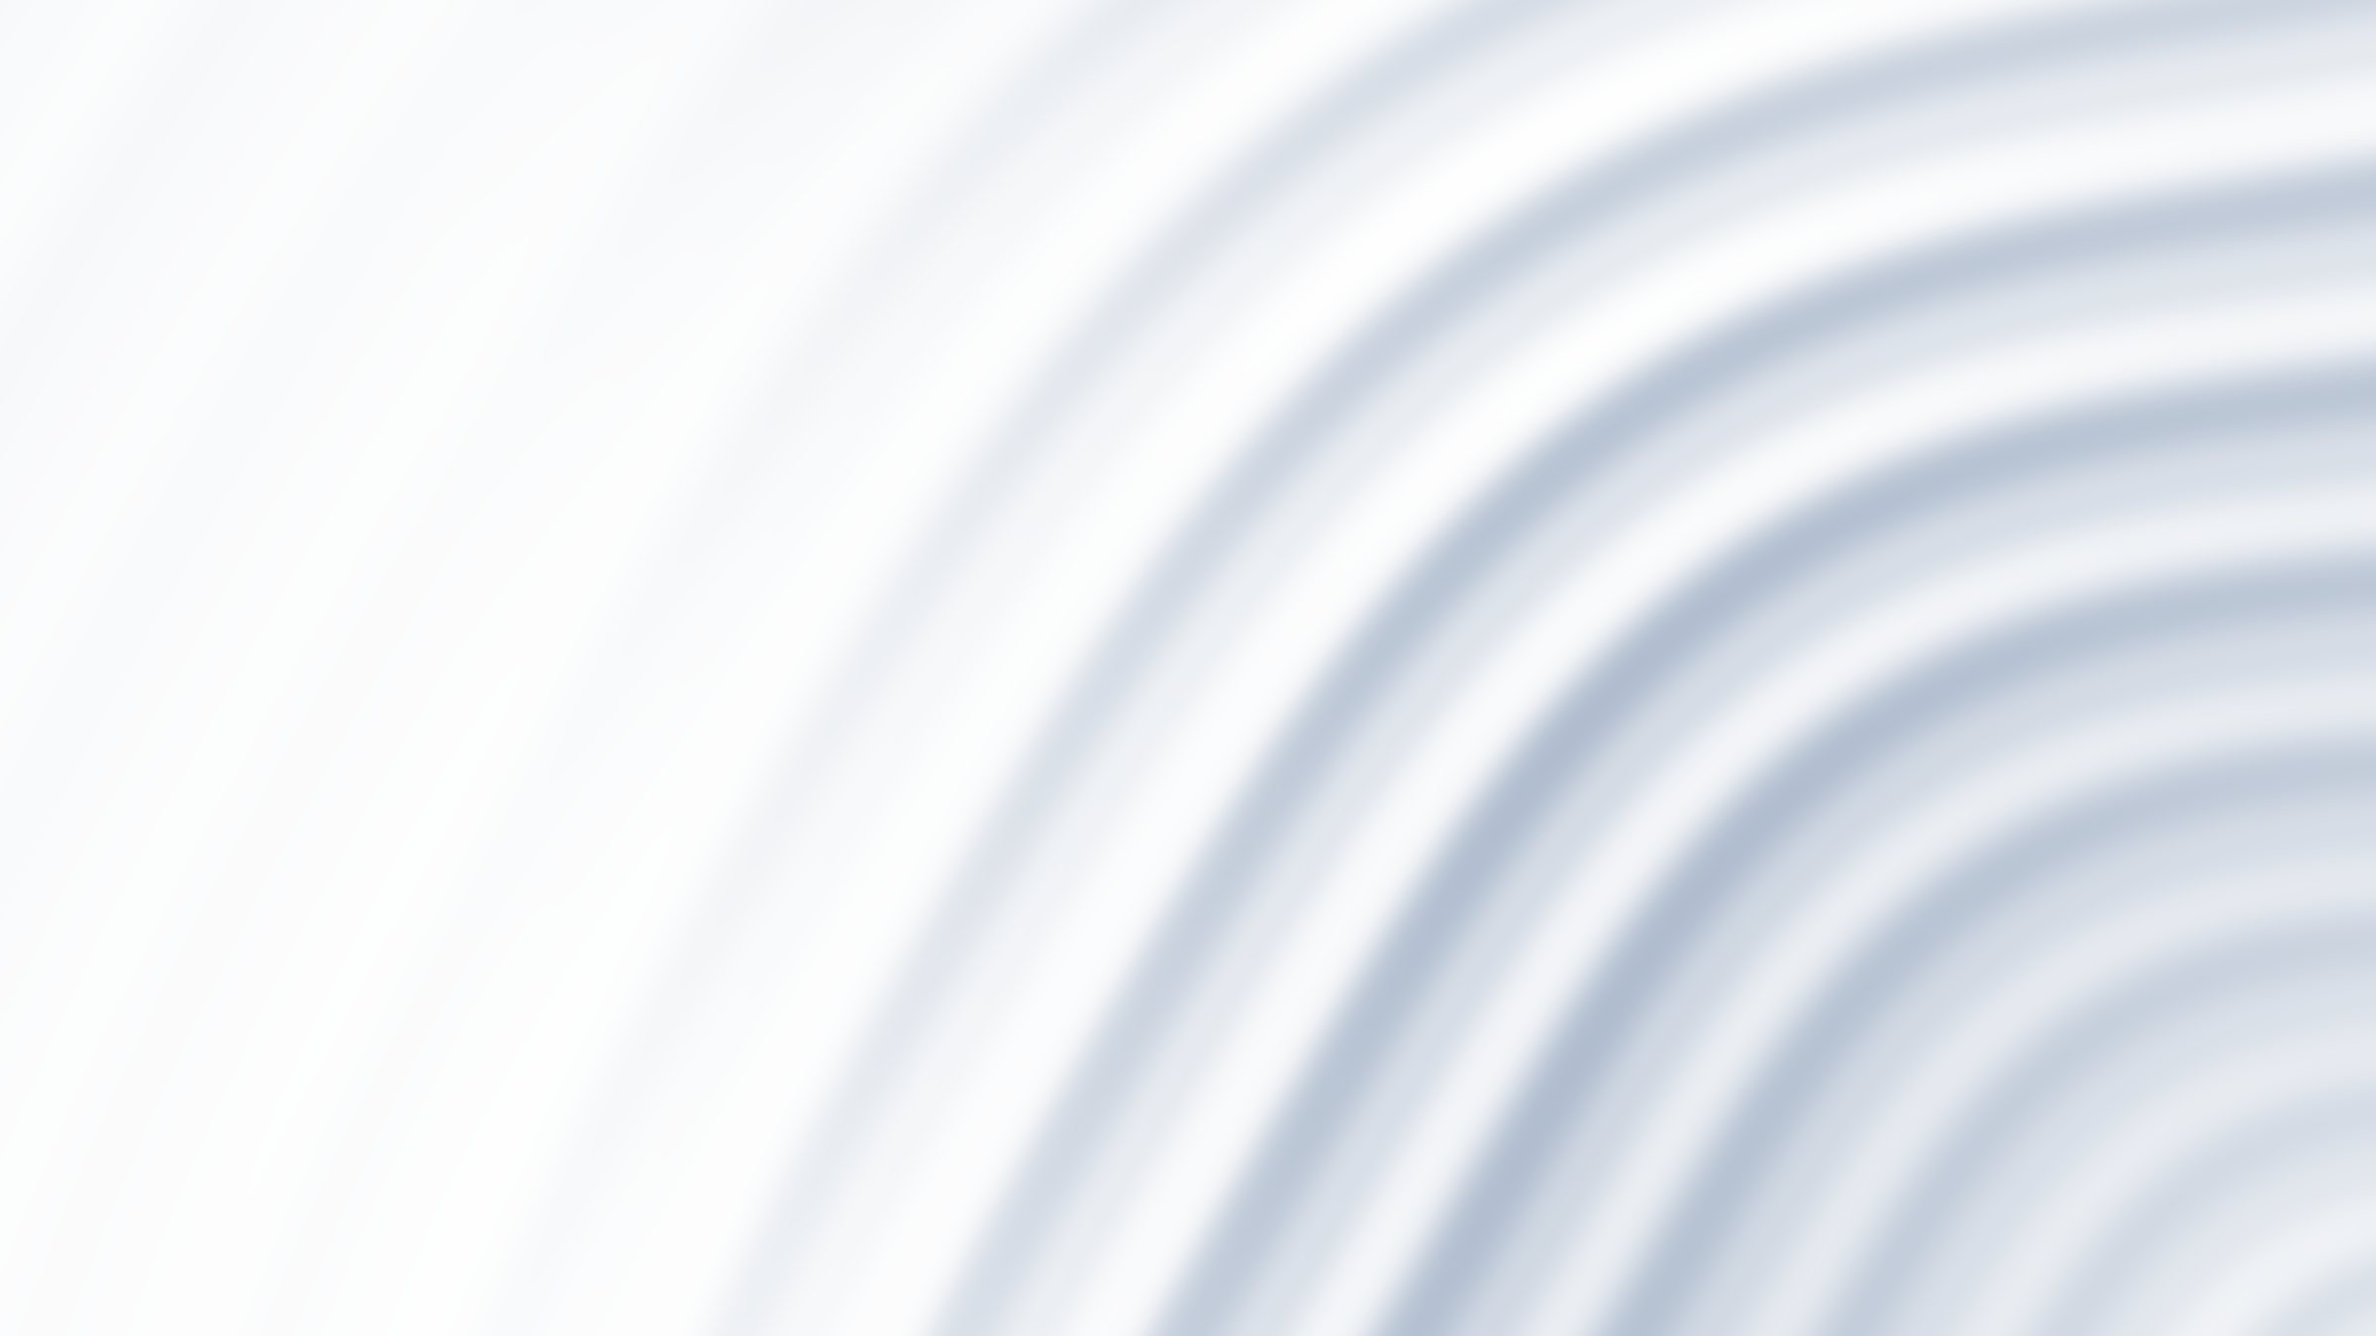
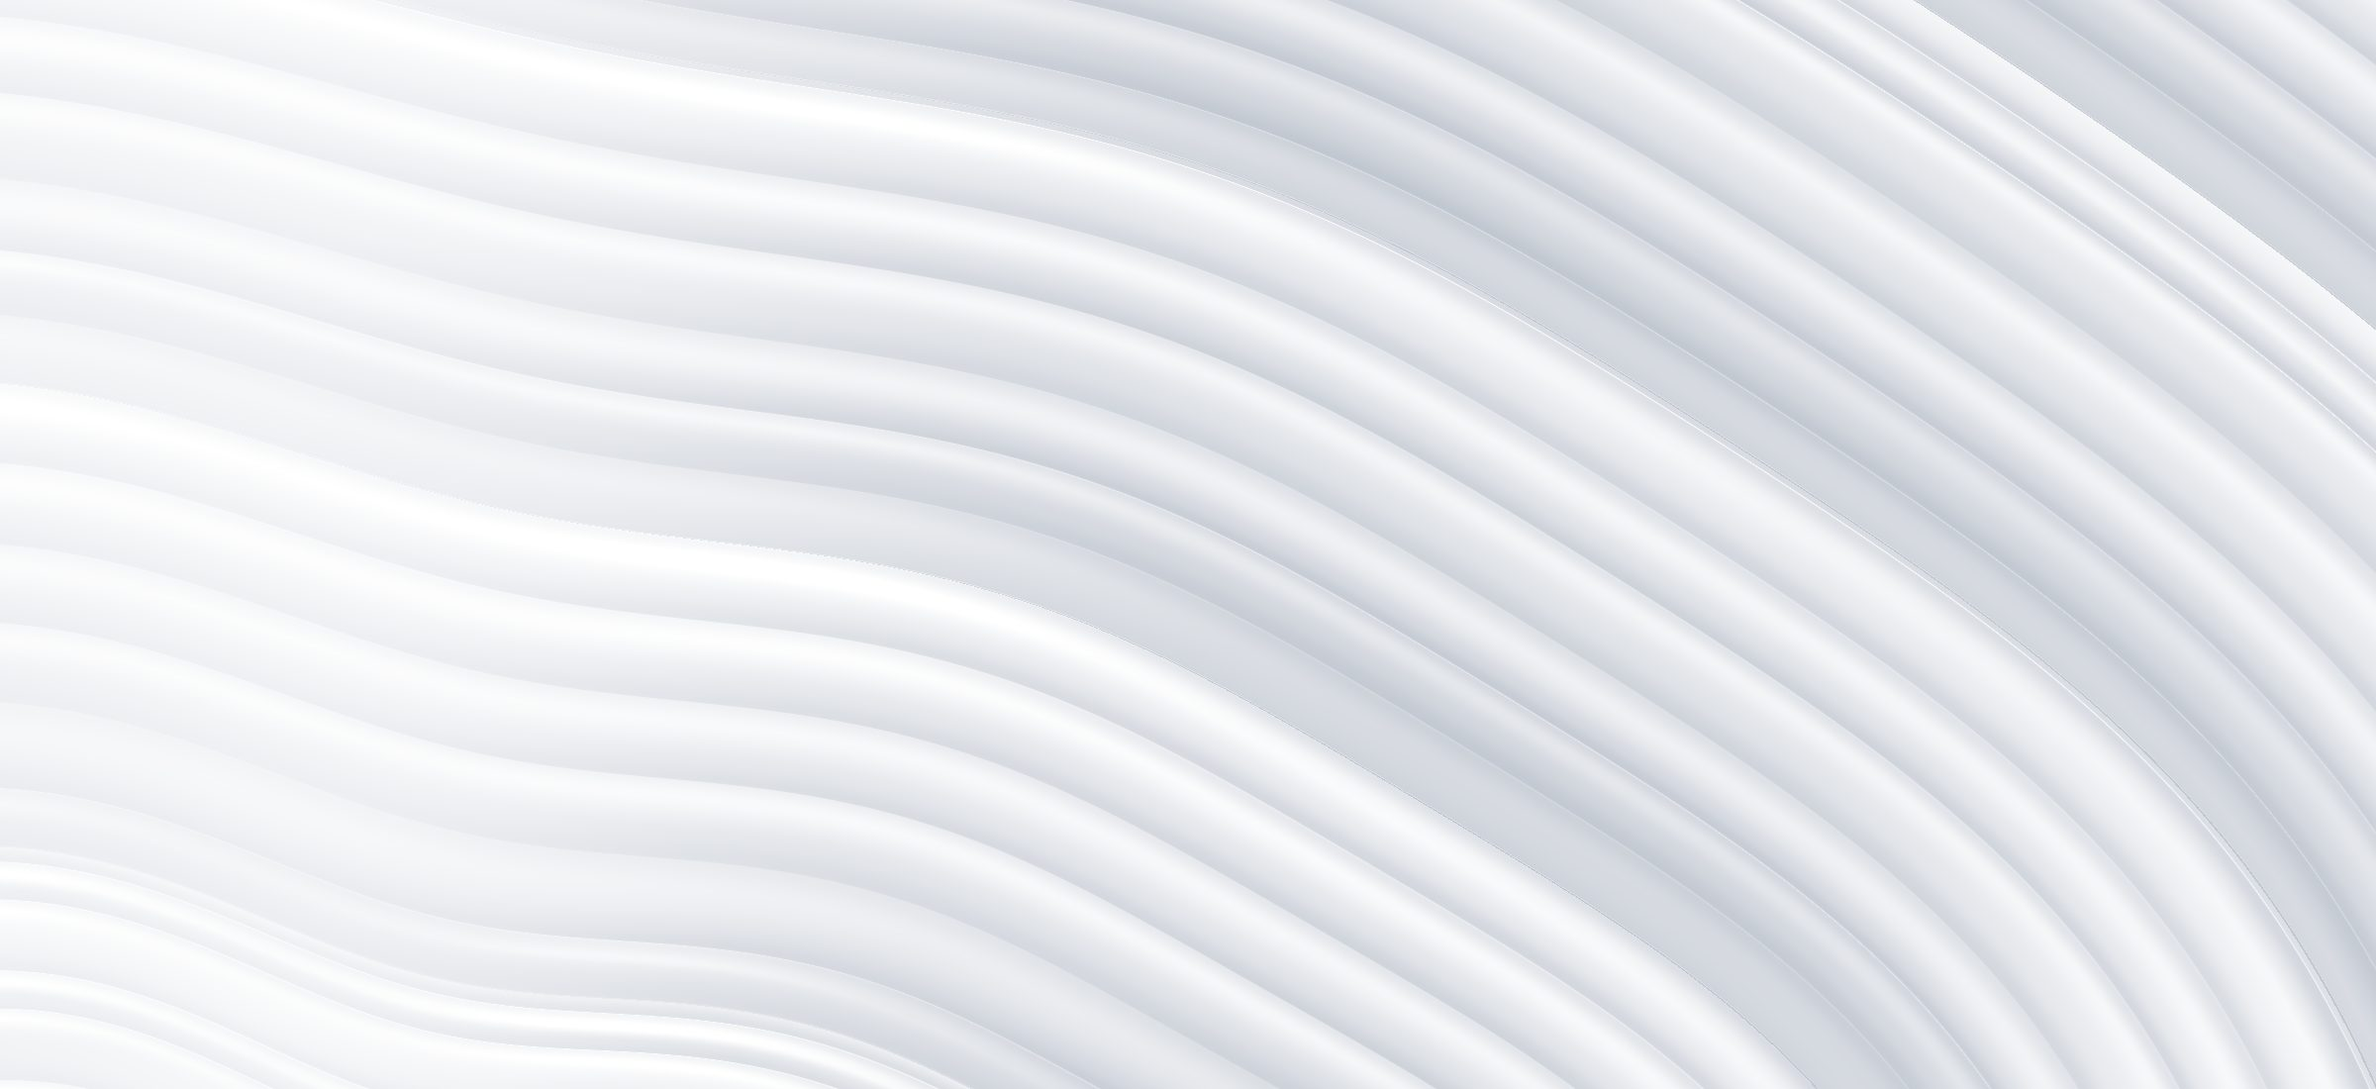
첫 화면: 가는 가닥이 겹쳐 흐르는 배경으로 교체, 높이 축소, 단추를 둥근 사각형으로, 상단 전화번호를 상담 문의로

diff --git a/style.css b/style.css
@@ -65,7 +65,7 @@ h3 { font-size: 1.25rem; }
 .brand img { width: auto; height: 60px; }
 .top nav { margin-left: auto; }
 .top nav ul { display: flex; gap: 4px; }
-.top nav a { display: block; padding: 12px 16px; color: var(--ink); text-decoration: none; font-weight: 500; border-radius: 999px; white-space: nowrap; }
+.top nav a { display: block; padding: 12px 16px; color: var(--ink); text-decoration: none; font-weight: 500; border-radius: 10px; white-space: nowrap; }
 .top nav a[aria-current="page"] { color: var(--blue); font-weight: 700; background: var(--wash); }
 
 /* ---------- 버튼 ---------- */
@@ -73,15 +73,15 @@ h3 { font-size: 1.25rem; }
 .btn {
   display: inline-flex; align-items: center; justify-content: center;
   min-height: 52px; padding: 0 28px;
-  border: 1.5px solid transparent; border-radius: 999px;
+  border: 1.5px solid transparent; border-radius: 12px;
   font: inherit; font-weight: 700; font-size: 1rem; text-decoration: none; cursor: pointer;
   font-variant-numeric: tabular-nums; white-space: nowrap;
   transition: transform 160ms var(--ease-out), background-color 160ms ease, color 160ms ease, border-color 160ms ease;
 }
 .btn:active { transform: scale(0.97); }
-.btn-small { min-height: 44px; padding: 0 20px; font-size: 0.9375rem; }
+.btn-small { min-height: 44px; padding: 0 20px; border-radius: 10px; font-size: 0.9375rem; }
 .btn-solid { background: var(--blue); color: var(--paper); }
-.btn-ghost { background: transparent; border-color: var(--muted); color: var(--ink); }
+.btn-ghost { background: var(--paper); border-color: var(--line); color: var(--ink); }
 .btn-light { background: var(--paper); color: var(--blue); }
 .btn-line { border-color: var(--paper); color: var(--paper); }
 @media (hover: hover) and (pointer: fine) {
@@ -106,13 +106,13 @@ h3 { font-size: 1.25rem; }
 .hero-pause[aria-pressed="true"] .i-play { display: inline; }
 .hero-pause:active { transform: scale(0.94); }
 @media (hover: hover) and (pointer: fine) { .hero-pause:hover { color: var(--blue); border-color: var(--blue); } }
-.hero-in { display: flex; flex-direction: column; justify-content: center; min-height: min(calc(100svh - 89px), 720px); padding-block: clamp(56px, 7vw, 96px); }
+.hero-in { display: flex; flex-direction: column; justify-content: center; min-height: min(calc(100svh - 89px), 540px); padding-block: clamp(48px, 6vw, 72px); }
 /* 서체는 Pretendard 하나. 가는 약속 한 줄 아래에 굵고 큰 이름을 굵기 차이로만 세운다 */
 .hero-title { display: grid; gap: 0.14em; font-size: clamp(2.75rem, 1rem + 5.6vw, 5.75rem); line-height: 1.1; letter-spacing: -0.04em; color: var(--blue); }
 .ht-slogan { font-size: 0.5em; font-weight: 300; letter-spacing: -0.02em; }
 .ht-name { font-weight: 800; }
-.hero .lead { margin-top: clamp(32px, 4vw, 56px); max-width: 24em; font-size: clamp(1.25rem, 1rem + 1.1vw, 1.75rem); font-weight: 500; line-height: 1.5; letter-spacing: -0.02em; color: var(--ink); }
-.hero .actions { margin-top: clamp(32px, 4vw, 48px); }
+.hero .lead { margin-top: clamp(24px, 3vw, 36px); max-width: 24em; font-size: clamp(1.25rem, 1rem + 1.1vw, 1.75rem); font-weight: 500; line-height: 1.5; letter-spacing: -0.02em; color: var(--ink); }
+.hero .actions { margin-top: clamp(28px, 3vw, 36px); }
 @keyframes rise { from { opacity: 0; transform: translateY(14px); } }
 @media (prefers-reduced-motion: no-preference) {
   .hero-in > * { animation: rise 640ms var(--ease-out) both; }
@@ -243,11 +243,12 @@ h3 { font-size: 1.25rem; }
   .top-in { flex-wrap: wrap; padding-block: 8px; gap: 0 16px; }
   .top nav { order: 3; width: 100%; margin-left: -12px; }
   .top nav a { padding: 12px; }
-  .top-tel { margin-left: auto; }
+  .top-cta { margin-left: auto; }
   .brand img { height: 52px; }
   html { scroll-padding-top: 16px; }
   .hero { background-position: 78% bottom; }
   .hero-in { min-height: 0; }
+  .hero-pause { top: 12px; bottom: auto; }
   .split, .cols, .visit, .svc, .profile { grid-template-columns: minmax(0, 1fr); gap: 32px; }
   .why { grid-template-columns: minmax(0, 1fr); }
   .tile { min-height: 0; }

diff --git a/hero.js b/hero.js
@@ -1,5 +1,5 @@
 /* 첫 화면 배경의 결이 천천히 흐르게 한다.
-   그림(img/hero-bg.jpg)과 같은 식을 화면에서 직접 그린다. 움직임을 줄이도록 설정한 기기,
+   가는 가닥이 겹쳐 흐르는 면을 화면에서 직접 그린다(img/hero-bg.jpg 는 같은 식의 정지 장면). 움직임을 줄이도록 설정한 기기,
    WebGL 을 쓸 수 없는 기기에서는 아무것도 하지 않고 정지 그림이 그대로 보인다. */
 (function () {
   var hero = document.querySelector('.hero');
@@ -13,26 +13,39 @@
   var frag = [
     'precision highp float;',
     'uniform vec2 res;uniform float T;',
-    'float hgt(vec2 q,float asp){',
-    '  vec2 d=vec2((q.x-1.25)*asp,q.y-1.55);',
-    '  float r=length(d);float a=atan(d.y,d.x);',
-    '  float t=r+0.06*sin(a*3.1+0.7+T)+0.035*sin(a*7.3+2.1-T);',
-    '  float ridge=pow(0.5+0.5*sin(58.0*pow(t,0.78)-T*3.0),1.6);',
-    '  float broad=0.5+0.5*sin(4.2*t+1.3+0.6*sin(T));',
-    '  return 0.030*ridge*(0.25+0.75*broad)+0.13*broad;',
+    'float hash(float n){return fract(sin(n*12.9898)*43758.5453);}',
+    'float vn(float x){float i=floor(x),f=fract(x);f=f*f*(3.-2.*f);return mix(hash(i),hash(i+1.),f);}',
+    '// 높이와 그늘 정보를 함께 돌려준다: x=높이, y=가닥 단면(0 골..1 등), z=겹친 판에서의 위치(0 판 시작..1 끝)',
+    'vec3 surf(vec2 q,float asp){',
+    '  vec2 d=vec2((q.x-0.10)*asp,q.y-2.05);',
+    '  float r=length(d);float a=atan(d.x,-d.y);',
+    '  float s=r+0.085*sin(a*2.3+1.0+T*0.50)+0.040*sin(a*5.1+0.4-T*0.35)+0.018*sin(a*11.0+T*0.2);',
+    '  float k=s*2.3-T*0.045;',
+    '  float sid=floor(k);float sheet=fract(k);',
+    '  float n=5.0+floor(6.0*hash(sid+3.0));',
+    '  float w=sheet*n+0.55*vn(sheet*n*0.9+sid*7.0);',
+    '  float x=fract(w)-0.5;',
+    '  float tube=pow(0.5+0.5*cos(6.2831853*x),0.55);',
+    '  float ramp=sheet*sheet*(3.0-2.0*sheet);',
+    '  float h=0.40*ramp+0.034*tube+0.05*sin(a*3.0+sid*1.7+T*0.3);',
+    '  return vec3(h,tube,sheet);',
     '}',
     'void main(){',
     '  vec2 q=vec2(gl_FragCoord.x/res.x,1.0-gl_FragCoord.y/res.y);',
-    '  float asp=max(res.x/res.y,1.3);',
-    '  float e=0.0012;',
-    '  float h0=hgt(q,asp);',
-    '  float gx=(hgt(q+vec2(e,0.),asp)-h0)/e*0.55;',
-    '  float gy=(hgt(q+vec2(0.,e),asp)-h0)/e*0.55;',
+    '  float asp=max(res.x/res.y,1.2);',
+    '  float e=0.0009;',
+    '  vec3 c=surf(q,asp);',
+    '  float gx=clamp((surf(q+vec2(e,0.),asp).x-c.x)/e,-6.,6.)*0.42;',
+    '  float gy=clamp((surf(q+vec2(0.,e),asp).x-c.x)/e,-6.,6.)*0.42;',
     '  vec3 n=normalize(vec3(-gx,-gy,1.0));',
-    '  float diff=clamp(dot(n,vec3(-0.4511,-0.5514,0.7018)),0.,1.);',
-    '  float s=pow(clamp((diff-0.17)/0.793,0.,1.),1.15);',
-    '  vec3 col=mix(vec3(0.690,0.741,0.812),vec3(1.0),s);',
-    '  float f=0.12+0.88*smoothstep(0.18,0.68,q.x);',
+    '  vec3 L=normalize(vec3(-0.35,-0.62,0.70));',
+    '  float diff=clamp(dot(n,L),0.,1.);',
+    '  float spec=pow(clamp(dot(n,normalize(L+vec3(0.,0.,1.))),0.,1.),38.0);',
+    '  float ao=mix(0.74,1.0,smoothstep(0.0,0.80,c.y));          // 가닥 사이 골의 그늘',
+    '  float under=mix(0.60,1.0,smoothstep(0.0,0.50,c.z));       // 위 판이 드리우는 그늘',
+    '  float lit=(0.42+0.70*diff)*ao*under+0.22*spec;',
+    '  vec3 col=mix(vec3(0.640,0.675,0.730),vec3(1.0),clamp(lit,0.,1.));',
+    '  float f=0.30+0.70*smoothstep(0.08,0.62,q.x);',
     '  gl_FragColor=vec4(mix(vec3(1.0),col,f),1.0);',
     '}'
   ].join('\n');
@@ -85,7 +98,7 @@
     if (last) clock += Math.min((now - last) / 1000, 0.1);
     last = now;
     resize();
-    gl.uniform1f(uT, clock * 0.22);
+    gl.uniform1f(uT, clock * 0.3);
     gl.drawArrays(gl.TRIANGLES, 0, 3);
     if (!shown) { shown = true; canvas.classList.add('is-on'); if (button) button.hidden = false; }
     frame = requestAnimationFrame(draw);

diff --git a/contact.html b/contact.html
@@ -18,7 +18,7 @@
 <link rel="icon" href="img/favicon.png" type="image/png">
 <link rel="preconnect" href="https://cdn.jsdelivr.net" crossorigin>
 <link rel="stylesheet" href="https://cdn.jsdelivr.net/gh/orioncactus/pretendard@v1.3.9/dist/web/variable/pretendardvariable-dynamic-subset.min.css">
-<link rel="stylesheet" href="style.css?v=1795139458">
+<link rel="stylesheet" href="style.css?v=1795142555">
 <script type="application/ld+json">{"@context": "https://schema.org", "@type": "AccountingService", "name": "세무회계 재담", "slogan": "재산을 지키다", "url": "https://jaedam.kr/", "logo": "https://jaedam.kr/img/logo-039.png", "image": "https://jaedam.kr/img/og.png", "telephone": "+82-31-8023-9870", "faxNumber": "+82-31-8023-9871", "sameAs": ["https://blog.naver.com/simtaxby", "https://map.naver.com/p/entry/place/1283285464"], "address": {"@type": "PostalAddress", "addressCountry": "KR", "addressRegion": "경기도", "addressLocality": "성남시 분당구", "streetAddress": "판교역로 178, 서건타워 401호", "postalCode": "13524"}}</script>
 </head>
 <body>
@@ -35,7 +35,7 @@
         <li><a href="contact.html" aria-current="page">오시는 길</a></li>
       </ul>
     </nav>
-    <a class="btn btn-solid btn-small top-tel" href="tel:031-8023-9870">031-8023-9870</a>
+    <a class="btn btn-solid btn-small top-cta" href="contact.html">상담 문의</a>
   </div>
 </header>
 <main id="main">

diff --git a/about.html b/about.html
@@ -18,7 +18,7 @@
 <link rel="icon" href="img/favicon.png" type="image/png">
 <link rel="preconnect" href="https://cdn.jsdelivr.net" crossorigin>
 <link rel="stylesheet" href="https://cdn.jsdelivr.net/gh/orioncactus/pretendard@v1.3.9/dist/web/variable/pretendardvariable-dynamic-subset.min.css">
-<link rel="stylesheet" href="style.css?v=1795139458">
+<link rel="stylesheet" href="style.css?v=1795142555">
 <script type="application/ld+json">{"@context": "https://schema.org", "@type": "AccountingService", "name": "세무회계 재담", "slogan": "재산을 지키다", "url": "https://jaedam.kr/", "logo": "https://jaedam.kr/img/logo-039.png", "image": "https://jaedam.kr/img/og.png", "telephone": "+82-31-8023-9870", "faxNumber": "+82-31-8023-9871", "sameAs": ["https://blog.naver.com/simtaxby", "https://map.naver.com/p/entry/place/1283285464"], "address": {"@type": "PostalAddress", "addressCountry": "KR", "addressRegion": "경기도", "addressLocality": "성남시 분당구", "streetAddress": "판교역로 178, 서건타워 401호", "postalCode": "13524"}}</script>
 </head>
 <body>
@@ -35,7 +35,7 @@
         <li><a href="contact.html">오시는 길</a></li>
       </ul>
     </nav>
-    <a class="btn btn-solid btn-small top-tel" href="tel:031-8023-9870">031-8023-9870</a>
+    <a class="btn btn-solid btn-small top-cta" href="contact.html">상담 문의</a>
   </div>
 </header>
 <main id="main">

diff --git a/index.html b/index.html
@@ -18,7 +18,7 @@
 <link rel="icon" href="img/favicon.png" type="image/png">
 <link rel="preconnect" href="https://cdn.jsdelivr.net" crossorigin>
 <link rel="stylesheet" href="https://cdn.jsdelivr.net/gh/orioncactus/pretendard@v1.3.9/dist/web/variable/pretendardvariable-dynamic-subset.min.css">
-<link rel="stylesheet" href="style.css?v=1795139458">
+<link rel="stylesheet" href="style.css?v=1795142555">
 <script type="application/ld+json">{"@context": "https://schema.org", "@type": "AccountingService", "name": "세무회계 재담", "slogan": "재산을 지키다", "url": "https://jaedam.kr/", "logo": "https://jaedam.kr/img/logo-039.png", "image": "https://jaedam.kr/img/og.png", "telephone": "+82-31-8023-9870", "faxNumber": "+82-31-8023-9871", "sameAs": ["https://blog.naver.com/simtaxby", "https://map.naver.com/p/entry/place/1283285464"], "address": {"@type": "PostalAddress", "addressCountry": "KR", "addressRegion": "경기도", "addressLocality": "성남시 분당구", "streetAddress": "판교역로 178, 서건타워 401호", "postalCode": "13524"}}</script>
 </head>
 <body>
@@ -35,7 +35,7 @@
         <li><a href="contact.html">오시는 길</a></li>
       </ul>
     </nav>
-    <a class="btn btn-solid btn-small top-tel" href="tel:031-8023-9870">031-8023-9870</a>
+    <a class="btn btn-solid btn-small top-cta" href="contact.html">상담 문의</a>
   </div>
 </header>
 <main id="main">

diff --git a/lee.html b/lee.html
@@ -18,7 +18,7 @@
 <link rel="icon" href="img/favicon.png" type="image/png">
 <link rel="preconnect" href="https://cdn.jsdelivr.net" crossorigin>
 <link rel="stylesheet" href="https://cdn.jsdelivr.net/gh/orioncactus/pretendard@v1.3.9/dist/web/variable/pretendardvariable-dynamic-subset.min.css">
-<link rel="stylesheet" href="style.css?v=1795139458">
+<link rel="stylesheet" href="style.css?v=1795142555">
 <script type="application/ld+json">{"@context": "https://schema.org", "@type": "AccountingService", "name": "세무회계 재담", "slogan": "재산을 지키다", "url": "https://jaedam.kr/", "logo": "https://jaedam.kr/img/logo-039.png", "image": "https://jaedam.kr/img/og.png", "telephone": "+82-31-8023-9870", "faxNumber": "+82-31-8023-9871", "sameAs": ["https://blog.naver.com/simtaxby", "https://map.naver.com/p/entry/place/1283285464"], "address": {"@type": "PostalAddress", "addressCountry": "KR", "addressRegion": "경기도", "addressLocality": "성남시 분당구", "streetAddress": "판교역로 178, 서건타워 401호", "postalCode": "13524"}}</script>
 </head>
 <body>
@@ -35,7 +35,7 @@
         <li><a href="contact.html">오시는 길</a></li>
       </ul>
     </nav>
-    <a class="btn btn-solid btn-small top-tel" href="tel:031-8023-9870">031-8023-9870</a>
+    <a class="btn btn-solid btn-small top-cta" href="contact.html">상담 문의</a>
   </div>
 </header>
 <main id="main">

diff --git a/services.html b/services.html
@@ -18,7 +18,7 @@
 <link rel="icon" href="img/favicon.png" type="image/png">
 <link rel="preconnect" href="https://cdn.jsdelivr.net" crossorigin>
 <link rel="stylesheet" href="https://cdn.jsdelivr.net/gh/orioncactus/pretendard@v1.3.9/dist/web/variable/pretendardvariable-dynamic-subset.min.css">
-<link rel="stylesheet" href="style.css?v=1795139458">
+<link rel="stylesheet" href="style.css?v=1795142555">
 <script type="application/ld+json">{"@context": "https://schema.org", "@type": "AccountingService", "name": "세무회계 재담", "slogan": "재산을 지키다", "url": "https://jaedam.kr/", "logo": "https://jaedam.kr/img/logo-039.png", "image": "https://jaedam.kr/img/og.png", "telephone": "+82-31-8023-9870", "faxNumber": "+82-31-8023-9871", "sameAs": ["https://blog.naver.com/simtaxby", "https://map.naver.com/p/entry/place/1283285464"], "address": {"@type": "PostalAddress", "addressCountry": "KR", "addressRegion": "경기도", "addressLocality": "성남시 분당구", "streetAddress": "판교역로 178, 서건타워 401호", "postalCode": "13524"}}</script>
 </head>
 <body>
@@ -35,7 +35,7 @@
         <li><a href="contact.html">오시는 길</a></li>
       </ul>
     </nav>
-    <a class="btn btn-solid btn-small top-tel" href="tel:031-8023-9870">031-8023-9870</a>
+    <a class="btn btn-solid btn-small top-cta" href="contact.html">상담 문의</a>
   </div>
 </header>
 <main id="main">

diff --git a/sim.html b/sim.html
@@ -18,7 +18,7 @@
 <link rel="icon" href="img/favicon.png" type="image/png">
 <link rel="preconnect" href="https://cdn.jsdelivr.net" crossorigin>
 <link rel="stylesheet" href="https://cdn.jsdelivr.net/gh/orioncactus/pretendard@v1.3.9/dist/web/variable/pretendardvariable-dynamic-subset.min.css">
-<link rel="stylesheet" href="style.css?v=1795139458">
+<link rel="stylesheet" href="style.css?v=1795142555">
 <script type="application/ld+json">{"@context": "https://schema.org", "@type": "AccountingService", "name": "세무회계 재담", "slogan": "재산을 지키다", "url": "https://jaedam.kr/", "logo": "https://jaedam.kr/img/logo-039.png", "image": "https://jaedam.kr/img/og.png", "telephone": "+82-31-8023-9870", "faxNumber": "+82-31-8023-9871", "sameAs": ["https://blog.naver.com/simtaxby", "https://map.naver.com/p/entry/place/1283285464"], "address": {"@type": "PostalAddress", "addressCountry": "KR", "addressRegion": "경기도", "addressLocality": "성남시 분당구", "streetAddress": "판교역로 178, 서건타워 401호", "postalCode": "13524"}}</script>
 </head>
 <body>
@@ -35,7 +35,7 @@
         <li><a href="contact.html">오시는 길</a></li>
       </ul>
     </nav>
-    <a class="btn btn-solid btn-small top-tel" href="tel:031-8023-9870">031-8023-9870</a>
+    <a class="btn btn-solid btn-small top-cta" href="contact.html">상담 문의</a>
   </div>
 </header>
 <main id="main">
